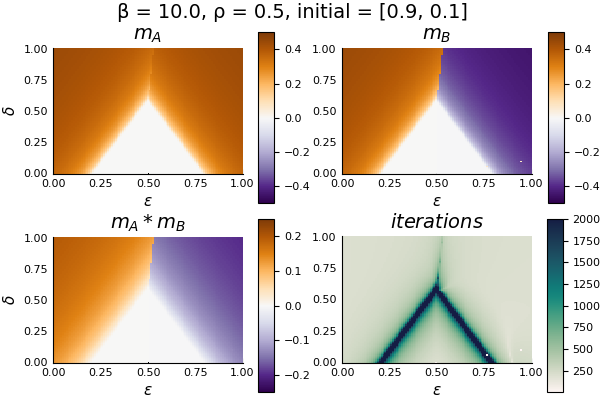
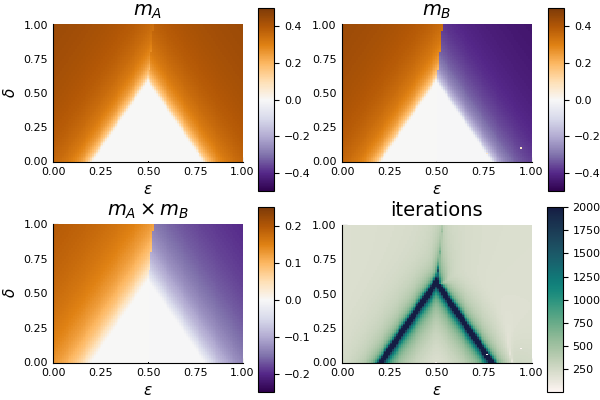
Update figures 43; small text on magnetizations

diff --git a/source/43_mfantiresults.md b/source/43_mfantiresults.md
@@ -1,24 +1,24 @@
 
 ## Bipartite society: coherence and opposition {#sec:mfantiresults}
 
-Now we can solve this equations for several values of the parameters $(\beta, \delta, \varepsilon)$ and obtain the fixed points of the system. For simplicity we only consider the situation in which the different populations have the same size, that is, $\rho_A = 0.5 = \rho_B$.
+In [@sec:mfantiferromagnetic] we presented a model for a bipartite society that presented a balance between in-group ferromagnetism and inter-group antiferromagnetism. This lead us to [@eq:fmaxima], a set of consistent relations we needed to solve to find the stable solutions $(x^*, y^*)$ corresponding to the maxima of $f(x, y)$.
 
-From [@fig:phasediagram], beyond the expected behavior of an all-agreeing phase and a disagreement one, we also note that there is a region where both groups present zero magnetization. This can be seen also from the free energy plot, in [@fig:freeenergy], below, and this is due to the interplay between agreement and disagreement in the groups' interactions.
+Before solving the system it is useful to have a proper interpretation to $x^*$ and $y^*$. To do that we can insert source terms $H_A \sum_{i \in A} h_i + H_B \sum_{j \in B} h_j$ in the Hamiltonian ([@eq:hamiltonian2]) and proceed with usual statistical mechanics calculations to obtain that the stable solutions are the magnetizations for each community:
 
-![The phase diagram when $\beta = 10.0$ and $\rho_A = \rho_B$.](images/phasediagram-full-beta10-rho05-initial0901.png){#fig:phasediagram width='70%'}
+$$ x^* = \frac1N \left\langle \sum_{i \in A} h_i \right\rangle \equiv m_A \qquad y^* = \frac1N \left\langle \sum_{j \in B} h_j \right\rangle \equiv m_B $$ {#eq:magnetization}
 
-![GET A BETTER IMAGE](images/freeenergy-beta10-delta25-eps6-rho05.png){#fig:freeenergy width='70%'}
+Now we perform once again the iterate process described in [@eq:updatemap] for several values of the parameters $(\beta, \delta, \varepsilon)$ and obtain the fixed points of the system. Once again optimizing $\alpha$ was unnecessary because the convergence was not a problem.
 
-EXPLAIN MORE! 
+We considered only the situation in which the populations have the same size, that is, $\rho_A = \rho_B = 0.5$.
 
-MORE PICTURES!
+![The phase diagram when $\beta = 10.0$ and $\rho_A = \rho_B = 0.5$. The initial points for the iterative algorithm were $x_0 = 0.9, y_0 = 0.1$](images/phasediagram-full-beta10-rho05-initial0901.png){#fig:phasediagram width='80%'}
 
-<!-- \begin{figure}[h!]
-\centering
-\includegraphics[width=0.35\textwidth]{figures/freeenergy-beta10-delta75-eps4-rho05.png}
-\includegraphics[width=0.35\textwidth]{figures/freeenergy-beta10-delta75-eps6-rho05.png}
-\\
-\includegraphics[width=0.4\textwidth]{figures/freeenergy-beta10-delta25-eps6-rho05.png}
-\caption{The free energy for $\beta = 10.0$, $\rho_A = \rho_B$ and different values of $\delta, \varepsilon$, representing the 3 phases typical of the system}
-\label{fig:freeenergy}
-\end{figure} -->
+From [@fig:phasediagram], beyond the expected behavior of an all-agreeing phase and a disagreement one, we also note that there is a region where both groups present zero magnetization. This can be seen also from the free energy plot, in [@fig:freeenergydisorder], below, and this is due to the interplay between agreement and disagreement in the groups' interactions.
+
+![Free energy $f(x, y)$ landscape when $\beta = 10.0, \delta = 0.25, \varepsilon = 0.6$ and $\rho_A = \rho_B = 0.5$. This is a region in which there is no consensus among the communities](images/freeenergy-beta10-delta25-eps6-rho05.png){#fig:freeenergydisorder width='60%'}
+
+We also present the other $2$ expected behaviours: consensus and polarization in [@fig:freeenergyconsensus; and @fig:freeenergypolarization]. Note that depending on the initial choice $(x_0, y_0)$ of alignment of the communities with the issue being discussed the society (the iterative algorithm) would converge to different and opposing states.
+
+![Free energy $f(x, y)$ landscape when $\beta = 10.0, \delta = 0.8, \varepsilon = 0.2$ and $\rho_A = \rho_B = 0.5$. This is a region in which there is overall consensus among the society](images/freeenergy-beta10-delta8-eps2-rho05.png){#fig:freeenergyconsensus width='60%'}
+
+![Free energy $f(x, y)$ landscape when $\beta = 10.0, \delta = 0.8, \varepsilon = 0.8$ and $\rho_A = \rho_B = 0.5$. This is a region in which there is internal consensus on each community but they disagree with one another.](images/freeenergy-beta10-delta8-eps8-rho05.png){#fig:freeenergypolarization width='60%'}

diff --git a/source/33_mfantiferromagnetic.md b/source/33_mfantiferromagnetic.md
@@ -1,5 +1,5 @@
 
-## A model of a Bipartite Society {#sec:mfantiferromagnetic}
+## A model for a Bipartite Society {#sec:mfantiferromagnetic}
 
 As we will shown in [@sec:mfresults] the only values of mistrust $\varepsilon$ explored for the model described in [@sec:meanfield] were between $0$ and $0.5$. This is because for values of $\varepsilon > 0.5$ the society enters a frustrated state which cannot be resolved by aligning nor anti-aligning the opinions of the agents. A similar problem is known for the infinite-range Ising model and can be solved separating the spins into 2 groups. We proceed the same way: the groups of agents, which we call _communities_, have ferromagnetic interactions within them and antiferromagnetic ones between elements of different the communities (depicted in [@fig:antiferro2groups]).
 
@@ -31,6 +31,8 @@ We recognize that we have only squared terms in the Hamiltonian, which renders t
 
 We can associate some quantities from [@eq:modhamiltonian] to quantities in [@eq:gaussiantrick2d] to continue the calculation:
 
+\vspace{-6mm}
+
 \begin{align}
     &A = \frac1N \sum_{i\in A} h_i\ \qquad\ B = \frac1N \sum_{j\in B} h_j \\
     &\frac{1}{1-\rho^2} = \beta N \delta\ \qquad\ \frac{\rho}{1-\rho^2} = \beta N (1-2\varepsilon)
@@ -53,6 +55,8 @@ Now, we have:
 
 where we defined $z_B = \delta x + (1-2\varepsilon) y$ and $z_B = \delta y + (1-2\varepsilon) x$. Now we evaluate the integral over $h$ separating into contributions from group $A$ and contributions from group $B$:
 
+\vspace{-4mm}
+
 \begin{align}
     I_h &= \int \mathrm{d}h\ \exp\left( \beta z_A \sum_{i \in A} h_i + \beta z_B \sum_{j \in B} h_j \right) \\
     &= \int \mathrm{d}h_A\ \exp\left( \beta z_A \sum_{j \in A} h_i \right)\int \mathrm{d}h_B\ \exp\left( \beta z_B \sum_{j \in B} h_j \right) \\
@@ -74,6 +78,6 @@ where $\rho_{A,B} = \frac{n_{A,B}}{N}$ is the fraction of agents in a given popu
 We expect $N$ to be large, so we expand $f(x, y)$ around its maximum $(x^*, y^*)$ to obtain a good approximation of the integral. This is known as Laplace's method. Differentiating $f$ with respect to its variables and finding the maxima, one obtains the following set of equations:
 
 \begin{align}
-	z_A^* = \rho_A \delta \left[ \coth \beta z_A^* - \frac{1}{\beta z_A^*} \right] + \rho_B (1-2\varepsilon) \left[ \coth \beta z_B^* - \frac{1}{\beta z_B^*} \right] \\
-	z_B^* = \rho_B \delta \left[ \coth \beta z_B^* - \frac{1}{\beta z_B^*} \right] + \rho_A (1-2\varepsilon) \left[ \coth \beta z_A^* - \frac{1}{\beta z_A^*} \right]
+	z_A^* = \rho_A \delta \left[ \coth \beta z_A^* - \frac{1}{\beta z_A^*} \right] + \rho_B (1-2\varepsilon) \left[ \coth \beta z_B^* - \frac{1}{\beta z_B^*} \right] \label{eq:fmaxima} \\
+	z_B^* = \rho_B \delta \left[ \coth \beta z_B^* - \frac{1}{\beta z_B^*} \right] + \rho_A (1-2\varepsilon) \left[ \coth \beta z_A^* - \frac{1}{\beta z_A^*} \right] \nonumber
 \end{align}
